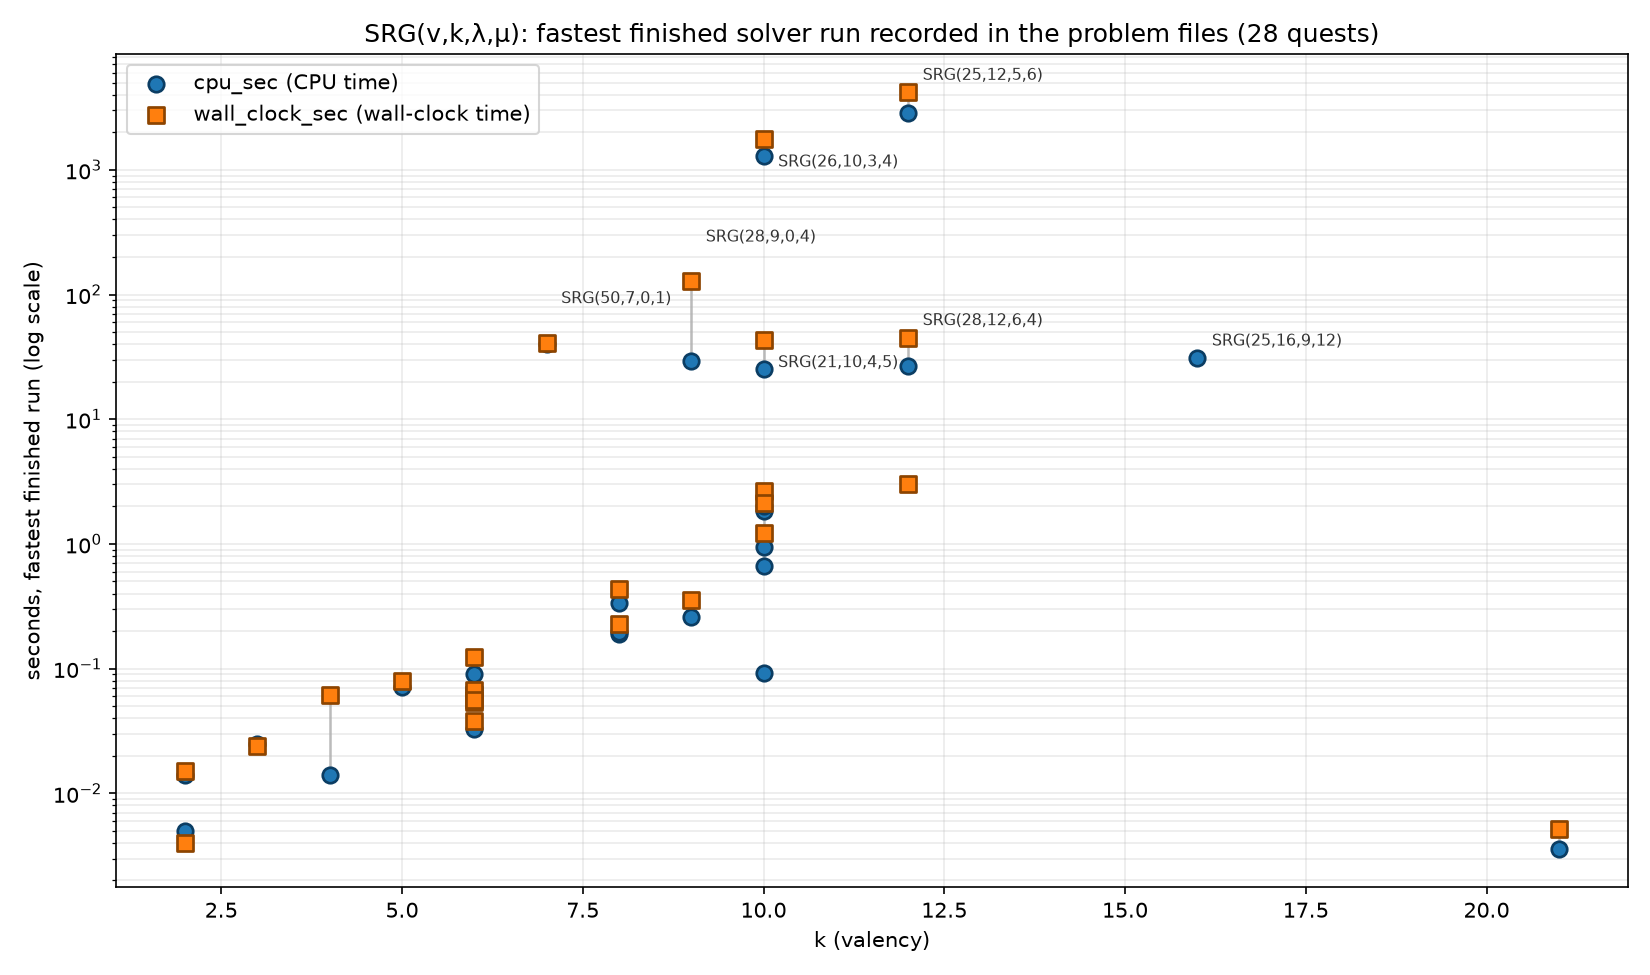
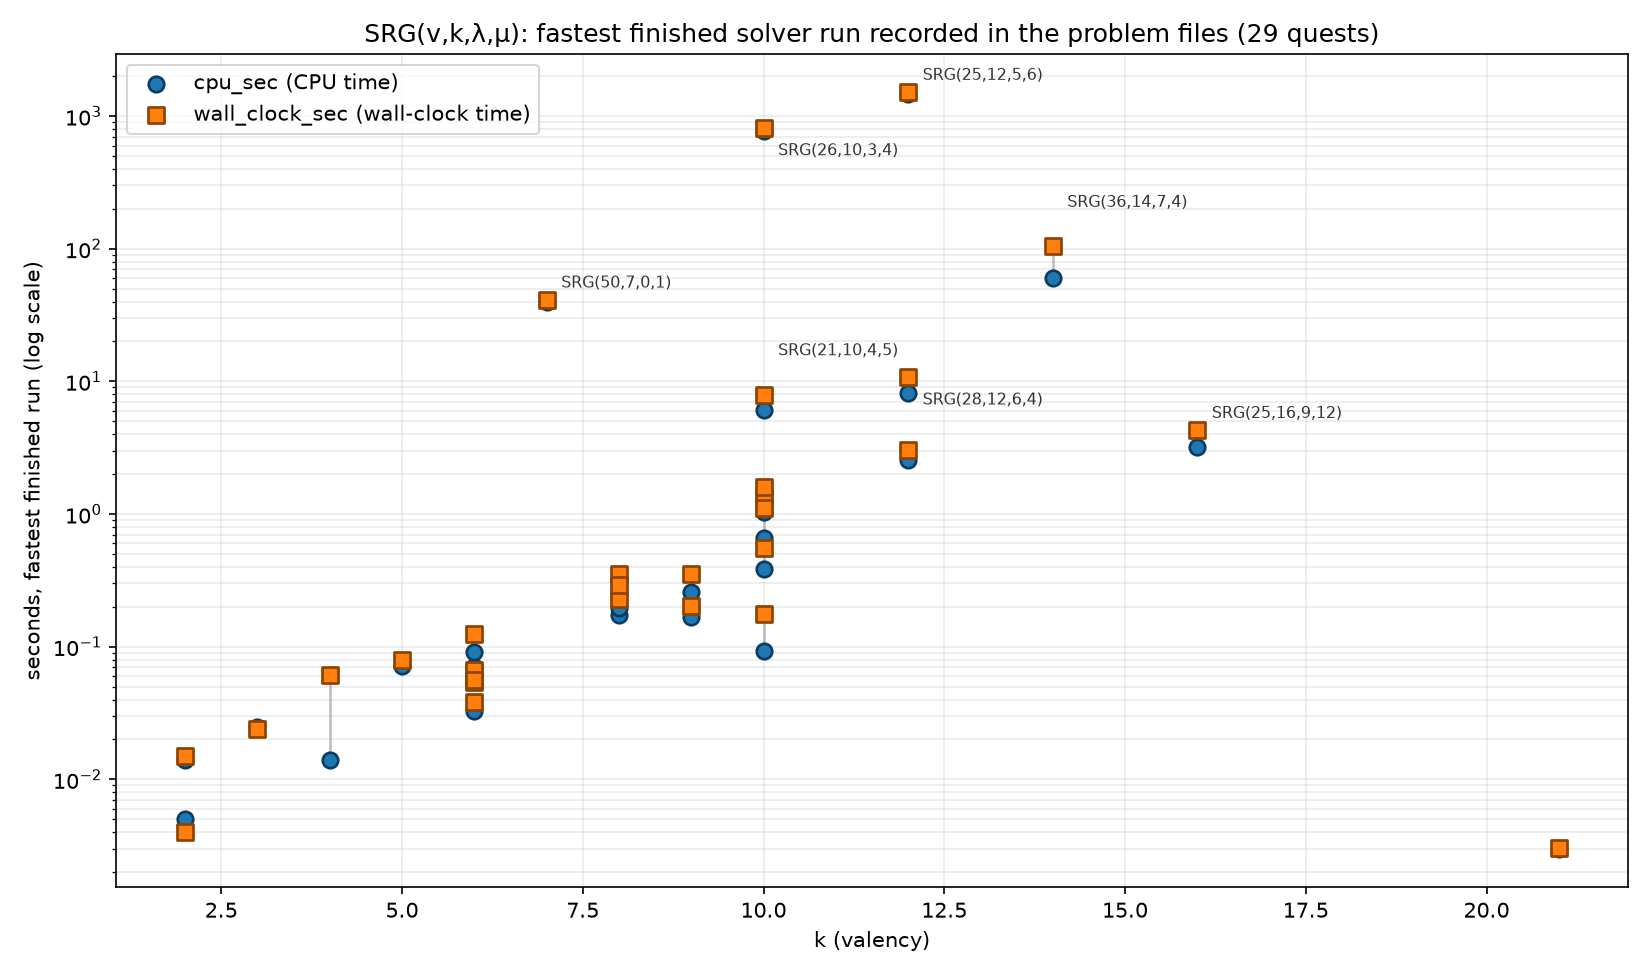
re-time the 29 timed quests with the current solver: lazy rule keeps only faster numbers
Ran the builder (python -O, cap 100) on every quest that had a stored time plus 36_14_7_4 and 49_12_5_2;
write_problem replaces cpu_sec / wall_clock_sec only with a faster run, so slower or equal runs changed
nothing. Biggest gains vs the stored numbers (CPU seconds):
  SRG(28,9,0,4)    29.57 -> 0.17    (non-existence now proved almost instantly)
  SRG(25,16,9,12)  30.92 -> 3.19
  SRG(28,12,6,4)   26.84 -> 8.15
  SRG(21,10,4,5)   25.38 -> 6.05
  SRG(25,12,5,6)   2834 -> 1476   (the complete 15-graph enumeration, wall 4181 -> 1510)
  SRG(26,10,3,4)   1279 -> 770    (the complete 10-graph enumeration, wall 1754 -> 812)
  SRG(36,14,7,4)   None -> 60.0   (wall 104; its old figure was a pause-inflated 3276s wall-clock)
  SRG(49,12,5,2)   None -> 2.55
Audit: no graph lost or changed in any file, all matrices canonical and solved(). studies/performance.png/csv
regenerated from the stored numbers (29 quests).

Claude-Session: https://claude.ai/code/session_01U12aqXF7kDkMUGUxN2M5gQ

diff --git a/src/srg/database/problem_28_12_6_4.py b/src/srg/database/problem_28_12_6_4.py
@@ -1,13 +1,13 @@
 '''
-STATUS: tackled - the search finished: these 4 graph(s) are ALL of them (the table: 4!)
+STATUS: tackled - the search finished: these 4 graph(s) are ALL of them [the file now records 4 graph(s) in total, merged with its earlier results]
 4 solutions = the 4 known non-isomorphic SRG(28,12,6,4) (T(8) + 3 Chang graphs), same isomorphism
 classes as the matrices below
 
 solutions deduplicated by isomorphism: 161 labelings of 4 graph(s) -> 4 canonical matrix(es) (canon.canonical_matrix)
 '''
 v, k, l, u = 28, 12, 6, 4
-cpu_sec = 26.84  # Intel(R) Core(TM) i5-4258U CPU @ 2.40GHz, python3.14.7
-wall_clock_sec = 45.1  # Intel(R) Core(TM) i5-4258U CPU @ 2.40GHz, python3.14.7
+cpu_sec = 8.147  # Intel(R) Core(TM) i5-4258U CPU @ 2.40GHz, python3.14.7
+wall_clock_sec = 10.72  # Intel(R) Core(TM) i5-4258U CPU @ 2.40GHz, python3.14.7
 solutions: list[str] = [
 """
 0111111111111000000000000000

diff --git a/src/srg/database/problem_21_10_5_4.py b/src/srg/database/problem_21_10_5_4.py
@@ -1,10 +1,10 @@
 '''
-STATUS: tackled - solved by the solver (its fastest finished run is in cpu_sec / wall_clock_sec below)
+STATUS: tackled - the search finished: these 1 graph(s) are ALL of them [the file now records 1 graph(s) in total, merged with its earlier results]
 solutions deduplicated by isomorphism: 2 labelings of 1 graph(s) -> 1 canonical matrix(es) (canon.canonical_matrix)
 '''
 v, k, l, u = 21, 10, 5, 4
-cpu_sec = 1.821  # Intel(R) Core(TM) i5-4258U CPU @ 2.40GHz, python3.14.7
-wall_clock_sec = 2.65  # Intel(R) Core(TM) i5-4258U CPU @ 2.40GHz, python3.14.7
+cpu_sec = 1.044  # Intel(R) Core(TM) i5-4258U CPU @ 2.40GHz, python3.14.7
+wall_clock_sec = 1.329  # Intel(R) Core(TM) i5-4258U CPU @ 2.40GHz, python3.14.7
 solutions: list[str] = [
 """
 011111111110000000000

diff --git a/src/srg/database/problem_16_10_6_6.py b/src/srg/database/problem_16_10_6_6.py
@@ -1,10 +1,10 @@
 '''
-STATUS: tackled - solved by the solver (its fastest finished run is in cpu_sec / wall_clock_sec below)
+STATUS: tackled - the search finished: these 1 graph(s) are ALL of them [the file now records 1 graph(s) in total, merged with its earlier results]
 solutions deduplicated by isomorphism: 2 labelings of 1 graph(s) -> 1 canonical matrix(es) (canon.canonical_matrix)
 '''
 v, k, l, u = 16, 10, 6, 6
-cpu_sec = 0.952  # Intel(R) Core(TM) i5-4258U CPU @ 2.40GHz, python3.14.7
-wall_clock_sec = 1.232  # Intel(R) Core(TM) i5-4258U CPU @ 2.40GHz, python3.14.7
+cpu_sec = 0.3839  # Intel(R) Core(TM) i5-4258U CPU @ 2.40GHz, python3.14.7
+wall_clock_sec = 0.5538  # Intel(R) Core(TM) i5-4258U CPU @ 2.40GHz, python3.14.7
 solutions: list[str] = [
 """
 0111111111100000

diff --git a/src/srg/database/problem_17_8_3_4.py b/src/srg/database/problem_17_8_3_4.py
@@ -1,10 +1,10 @@
 '''
-STATUS: tackled - solved by the solver (its fastest finished run is in cpu_sec / wall_clock_sec below)
+STATUS: tackled - the search finished: these 1 graph(s) are ALL of them [the file now records 1 graph(s) in total, merged with its earlier results]
 solutions deduplicated by isomorphism: 6 labelings of 1 graph(s) -> 1 canonical matrix(es) (canon.canonical_matrix)
 '''
 v, k, l, u = 17, 8, 3, 4
-cpu_sec = 0.336  # Intel(R) Core(TM) i5-4258U CPU @ 2.40GHz, python3.14.7
-wall_clock_sec = 0.434  # Intel(R) Core(TM) i5-4258U CPU @ 2.40GHz, python3.14.7
+cpu_sec = 0.2513  # Intel(R) Core(TM) i5-4258U CPU @ 2.40GHz, python3.14.7
+wall_clock_sec = 0.3506  # Intel(R) Core(TM) i5-4258U CPU @ 2.40GHz, python3.14.7
 solutions: list[str] = [
 """
 01111111100000000

diff --git a/src/srg/database/problem_27_10_1_5.py b/src/srg/database/problem_27_10_1_5.py
@@ -1,10 +1,10 @@
 '''
-STATUS: tackled - solved by the solver (its fastest finished run is in cpu_sec / wall_clock_sec below)
+STATUS: tackled - the search finished: these 1 graph(s) are ALL of them [the file now records 1 graph(s) in total, merged with its earlier results]
 solutions deduplicated by isomorphism: 2 labelings of 1 graph(s) -> 1 canonical matrix(es) (canon.canonical_matrix)
 '''
 v, k, l, u = 27, 10, 1, 5
-cpu_sec = 2.011  # Intel(R) Core(TM) i5-4258U CPU @ 2.40GHz, python3.14.7
-wall_clock_sec = None
+cpu_sec = 1.255  # Intel(R) Core(TM) i5-4258U CPU @ 2.40GHz, python3.14.7
+wall_clock_sec = 1.609  # Intel(R) Core(TM) i5-4258U CPU @ 2.40GHz, python3.14.7
 solutions: list[str] = [
 """
 011111111110000000000000000

diff --git a/src/srg/database/problem_25_16_9_12.py b/src/srg/database/problem_25_16_9_12.py
@@ -1,9 +1,9 @@
 '''
-STATUS: derived - the complement(s) of the graph(s) of problem_25_8_3_2: exact, no search was run for the recorded graph(s); cpu_sec / wall_clock_sec below are the solver's own fastest finished run on this quest
+STATUS: tackled - the search finished: these 1 graph(s) are ALL of them [the file now records 1 graph(s) in total, merged with its earlier results]
 '''
 v, k, l, u = 25, 16, 9, 12
-cpu_sec = 30.92  # Intel(R) Core(TM) i5-4258U CPU @ 2.40GHz, python3.14.7
-wall_clock_sec = None
+cpu_sec = 3.189  # Intel(R) Core(TM) i5-4258U CPU @ 2.40GHz, python3.14.7
+wall_clock_sec = 4.27  # Intel(R) Core(TM) i5-4258U CPU @ 2.40GHz, python3.14.7
 solutions: list[str] = [
 """
 0111111111111111100000000

diff --git a/src/srg/database/problem_50_21_4_12.py b/src/srg/database/problem_50_21_4_12.py
@@ -1,12 +1,13 @@
 '''
 no solution.
 STATUS: tackled - the search finished and found no solution
+no solution.
 Brouwer table srgtab1-50: does not exist (does not exist) - Absolute bound
 Source: https://aeb.win.tue.nl/graphs/srg/srgtab1-50.html
 Complement: problem_50_28_18_12 (derive from this one when done)
 '''
 v, k, l, u = 50, 21, 4, 12
-cpu_sec = 0.003551  # Intel(R) Core(TM) i5-4258U CPU @ 2.40GHz, python3.14.7
-wall_clock_sec = 0.005197  # Intel(R) Core(TM) i5-4258U CPU @ 2.40GHz, python3.14.7
+cpu_sec = 0.002966  # Intel(R) Core(TM) i5-4258U CPU @ 2.40GHz, python3.14.7
+wall_clock_sec = 0.003063  # Intel(R) Core(TM) i5-4258U CPU @ 2.40GHz, python3.14.7
 solutions: list[str] = [
 ]

diff --git a/src/srg/database/problem_26_10_3_4.py b/src/srg/database/problem_26_10_3_4.py
@@ -10,8 +10,8 @@ solutions standardized: 1 canonical matrix(es), one per graph (canon.canonical_m
 known construction (complement of block graph of a cyclic Steiner triple system STS(13)) generated, checked with solved(), and added: it is a graph this file did not have yet (NOT found by the solver)
 '''
 v, k, l, u = 26, 10, 3, 4
-cpu_sec = 1279  # Intel(R) Core(TM) i5-4258U CPU @ 2.40GHz, python3.14.7
-wall_clock_sec = 1754  # Intel(R) Core(TM) i5-4258U CPU @ 2.40GHz, python3.14.7
+cpu_sec = 770  # Intel(R) Core(TM) i5-4258U CPU @ 2.40GHz, python3.14.7
+wall_clock_sec = 812  # Intel(R) Core(TM) i5-4258U CPU @ 2.40GHz, python3.14.7
 solutions: list[str] = [
 """
 01111111111000000000000000

diff --git a/src/srg/database/problem_15_8_4_4.py b/src/srg/database/problem_15_8_4_4.py
@@ -1,9 +1,9 @@
 '''
-STATUS: tackled - solved by the solver (its fastest finished run is in cpu_sec / wall_clock_sec below)
+STATUS: tackled - the search finished: these 1 graph(s) are ALL of them [the file now records 1 graph(s) in total, merged with its earlier results]
 solutions deduplicated by isomorphism: 2 labelings of 1 graph(s) -> 1 canonical matrix(es) (canon.canonical_matrix)
 '''
 v, k, l, u = 15, 8, 4, 4
-cpu_sec = 0.19  # Intel(R) Core(TM) i5-4258U CPU @ 2.40GHz, python3.14.7
+cpu_sec = 0.1744  # Intel(R) Core(TM) i5-4258U CPU @ 2.40GHz, python3.14.7
 wall_clock_sec = 0.229  # Intel(R) Core(TM) i5-4258U CPU @ 2.40GHz, python3.14.7
 solutions: list[str] = [
 """

diff --git a/src/srg/database/problem_21_10_3_6.py b/src/srg/database/problem_21_10_3_6.py
@@ -1,9 +1,9 @@
 '''
-STATUS: derived - the complement(s) of the graph(s) of problem_21_10_5_4: exact, no search was run for the recorded graph(s); cpu_sec / wall_clock_sec below are the solver's own fastest finished run on this quest
+STATUS: tackled - the search finished: these 1 graph(s) are ALL of them [the file now records 1 graph(s) in total, merged with its earlier results]
 '''
 v, k, l, u = 21, 10, 3, 6
 cpu_sec = 0.093  # Intel(R) Core(TM) i5-4258U CPU @ 2.40GHz, python3.14.7
-wall_clock_sec = None
+wall_clock_sec = 0.1758  # Intel(R) Core(TM) i5-4258U CPU @ 2.40GHz, python3.14.7
 solutions: list[str] = [
 """
 011111111110000000000

diff --git a/src/srg/database/problem_25_12_5_6.py b/src/srg/database/problem_25_12_5_6.py
@@ -10,8 +10,8 @@ solutions standardized: 1 canonical matrix(es), one per graph (canon.canonical_m
 known construction (Paley(25)) generated, checked with solved(), and added: it is a graph this file did not have yet (NOT found by the solver)
 '''
 v, k, l, u = 25, 12, 5, 6
-cpu_sec = 2834  # Intel(R) Core(TM) i5-4258U CPU @ 2.40GHz, python3.14.7
-wall_clock_sec = 4181  # Intel(R) Core(TM) i5-4258U CPU @ 2.40GHz, python3.14.7
+cpu_sec = 1476  # Intel(R) Core(TM) i5-4258U CPU @ 2.40GHz, python3.14.7
+wall_clock_sec = 1510  # Intel(R) Core(TM) i5-4258U CPU @ 2.40GHz, python3.14.7
 solutions: list[str] = [
 """
 0111111111111000000000000

diff --git a/src/srg/database/problem_36_10_4_2.py b/src/srg/database/problem_36_10_4_2.py
@@ -1,9 +1,9 @@
 '''
-STATUS: tackled - solved by the solver (its fastest finished run is in cpu_sec / wall_clock_sec below)
+STATUS: tackled - the search finished: these 1 graph(s) are ALL of them [the file now records 1 graph(s) in total, merged with its earlier results]
 '''
 v, k, l, u = 36, 10, 4, 2
 cpu_sec = 0.663  # Intel(R) Core(TM) i5-4258U CPU @ 2.40GHz, python3.14.7
-wall_clock_sec = 2.143  # Intel(R) Core(TM) i5-4258U CPU @ 2.40GHz, python3.14.7
+wall_clock_sec = 1.104  # Intel(R) Core(TM) i5-4258U CPU @ 2.40GHz, python3.14.7
 solutions: list[str] = [
 """
 011111111110000000000000000000000000
